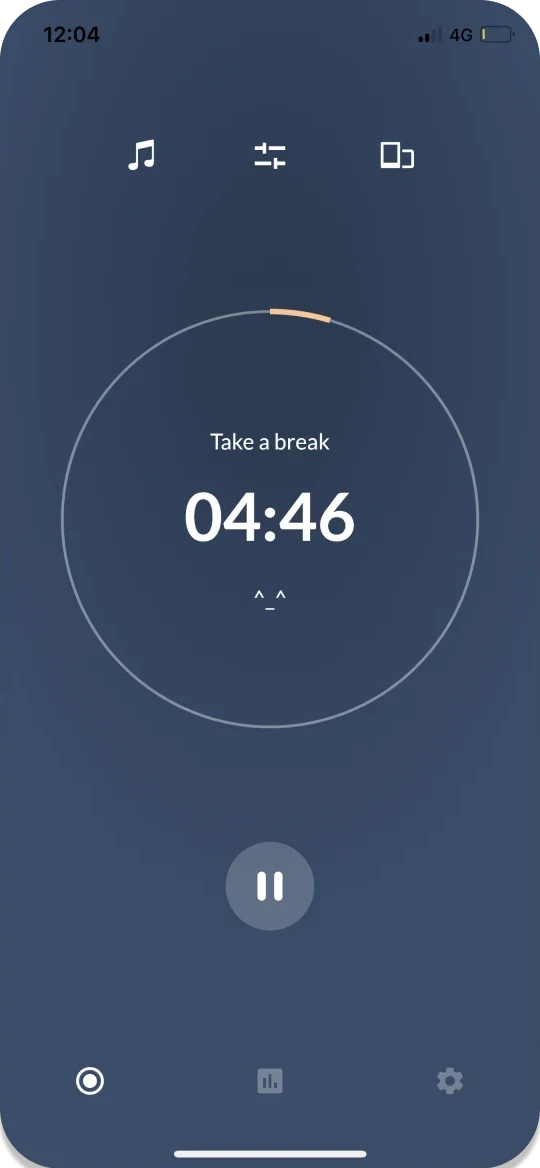
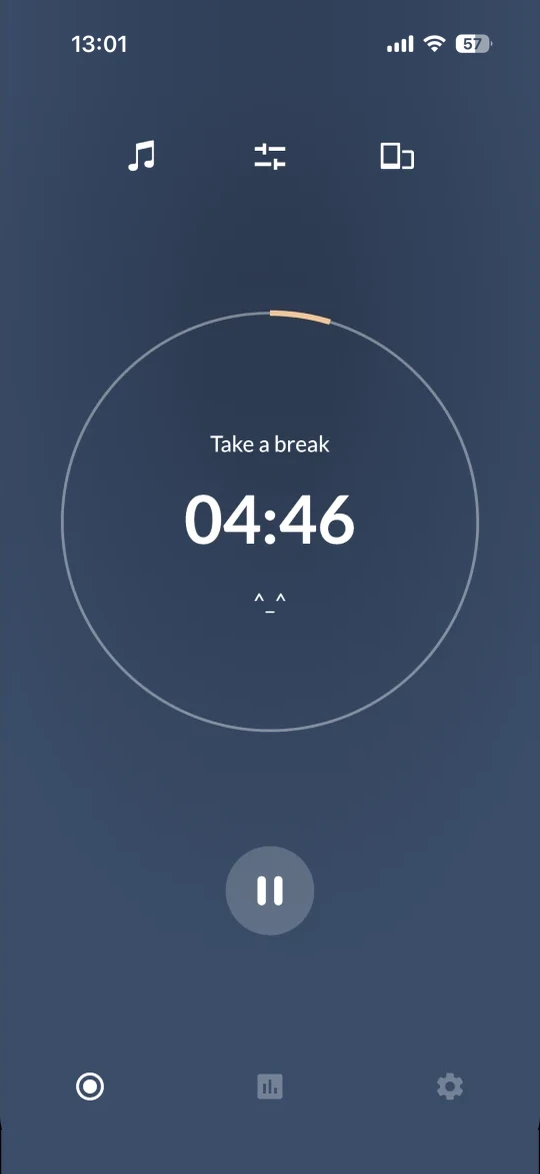
Refresh Foca screenshots to the current iPhone size
Use the new full-size captures for focus, ambient sound and stretch, and
bring the older break and statistics captures to the same size with a
matching status bar and no legacy home indicator.

Claude-Session: https://claude.ai/code/session_011MVkH6nZ5reC8XqX1YsSps

diff --git a/index.html b/index.html
@@ -243,15 +243,15 @@
           <p>Set your session, tag it with a category and start. Auto-Run keeps rounds going without tapping back in, and ambient sounds — forest, tide, café, bonfire — help you settle.</p>
         </div>
         <div class="feature-media">
-          <img class="shot" src="images/shot-ios-timer.webp" alt="Foca focus timer running on iPhone" width="540" height="1170" loading="lazy">
-          <img class="shot" src="images/shot-ios-sounds.webp" alt="Choosing an ambient sound in Foca" width="540" height="1170" loading="lazy">
+          <img class="shot" src="images/shot-ios-timer.webp" alt="Foca focus timer running on iPhone" width="540" height="1174" loading="lazy">
+          <img class="shot" src="images/shot-ios-sounds.webp" alt="Choosing an ambient sound in Foca" width="540" height="1174" loading="lazy">
         </div>
       </div>
 
       <div class="feature flip reveal">
         <div class="feature-media">
-          <img class="shot" src="images/shot-ios-break.webp" alt="Foca break timer" width="540" height="1170" loading="lazy">
-          <img class="shot" src="images/shot-ios-stretch.webp" alt="Guided back stretch in Foca" width="540" height="1170" loading="lazy">
+          <img class="shot" src="images/shot-ios-break.webp" alt="Foca break timer" width="540" height="1174" loading="lazy">
+          <img class="shot" src="images/shot-ios-stretch.webp" alt="Guided neck stretch in Foca" width="540" height="1174" loading="lazy">
         </div>
         <div class="feature-copy">
           <p class="eyebrow">02 · Break</p>
@@ -267,8 +267,8 @@
           <p>Daily and weekly focus time, plus how it splits across your categories — Work, Study, Writing, Reading and more.</p>
         </div>
         <div class="feature-media">
-          <img class="shot" src="images/shot-ios-stats.webp" alt="Foca focus statistics" width="540" height="1170" loading="lazy">
-          <img class="shot" src="images/shot-ios-distribution.webp" alt="Foca task distribution by category" width="540" height="1170" loading="lazy">
+          <img class="shot" src="images/shot-ios-stats.webp" alt="Foca focus statistics" width="540" height="1174" loading="lazy">
+          <img class="shot" src="images/shot-ios-distribution.webp" alt="Foca task distribution by category" width="540" height="1174" loading="lazy">
         </div>
       </div>
     </section>
